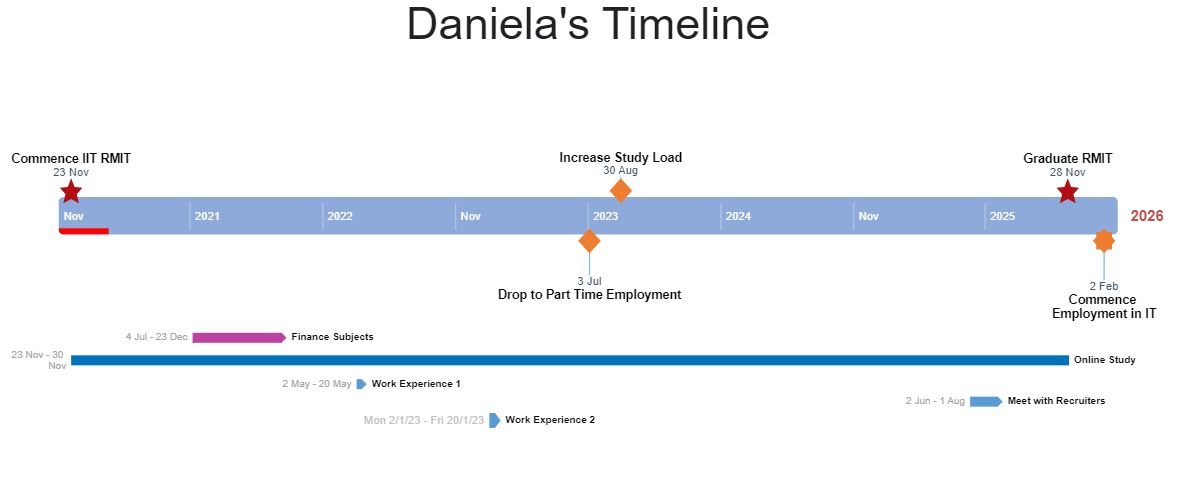
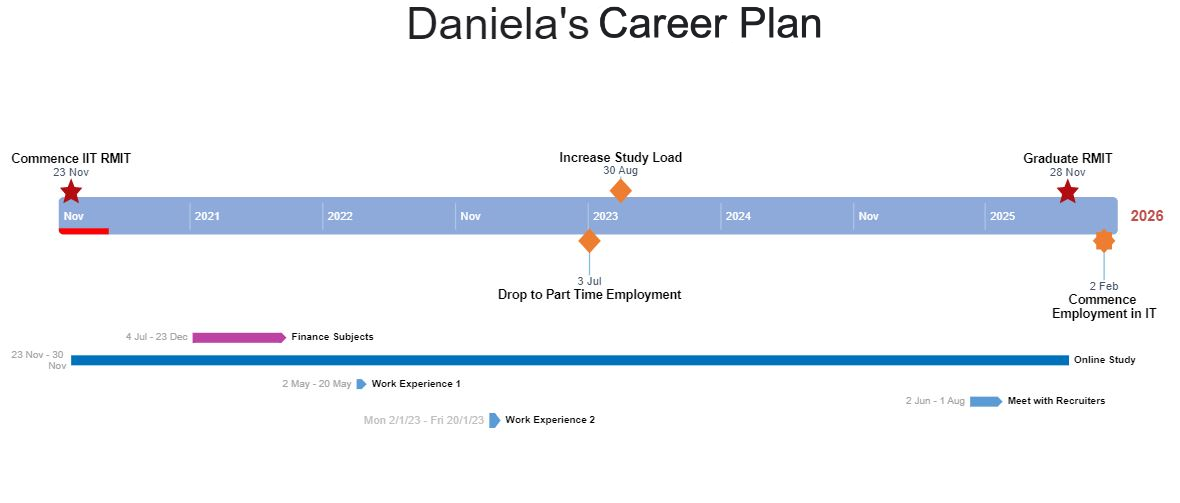
added side navigation, fixed careerplan image

Changed region(s): [[0.4881, 0.0, 0.7017, 0.0895]]

diff --git a/index.html b/index.html
@@ -56,13 +56,21 @@ Free for personal and commercial use under the CCA 3.0 license (html5up.net/lice
 <!-- Team -->
 
 				<article id="team" class="panel">
-
+					<div class="sidenav">
+						<div class="sidenavheaders" style="text-align:center;">Team Profile</h1></div>
+						<a href="#Joseph">Joseph</a>
+						<a href="#Benjamin">Benjamin</a>
+						<a href="#Brandon">Brandon</a>
+						<a href="#Daniela">Daniela</a>
+						<a href="#Varshan">Varshan</a>
+						<a href="#Viktor">Viktor</a>
+					</div>
 					<header>
 						<h1 style="text-align:center;">Team Profile</h1>
 					</header>
 					<section>
 						<div>
-							<a><img src="images/Joe_head.png" width=20% height=20% alt="Joseph"></a>
+							<a id="Joseph"><img src="images/Joe_head.png" width=20% height=20% alt="Joseph"></a>
 							<h2>Joseph</h2>
 							<p>Joseph Thannheiser (s3887138) is 24 years old, was born in Brisbane and has lived in Queensland for most of his life. At the end of October 2020, he moved to Sydney, New South Wales and is now only a 10-minute walk from Bondi Beach. Growing up, he attended Wellington Point State High School in South East Queensland and graduated in 2013. He has always enjoyed using technology – whether it be to play games, communicating with friends and peers, or to study online. Joseph is currently studying with RMIT and is enrolled in Introduction to Information Technology and Introduction to Programming. Though his experience with IT is mostly informal, Joseph has learned a lot about both computer software and hardware as well as how to build and maintain his own PC. In his free time, he enjoys playing video games, going to the beach, and hanging out with his partner Eloise and their new kitten Rudy.</p>
 
@@ -70,7 +78,7 @@ Free for personal and commercial use under the CCA 3.0 license (html5up.net/lice
 						</div>
 
 						<div>
-							<a><img src="images/Ben_head.png" width=20% height=20% alt="Benjamin"></a>
+							<a id="Benjamin"><img src="images/Ben_head.png" width=20% height=20% alt="Benjamin"></a>
 							<h2>Benjamin</h2>
 							<p>Benjamin James Snelgrove was born in Sydney, Australia in 1994. He attended Kingswood High School in Greater Western Sydney and successfully attained his Higher School Certificate in 2011. At the beginning of 2012, Benjamin enlisted into the Australian Army and was posted to Darwin. Benjamin has been fortunate enough to move around Australia and live in some incredible places. This within itself, this has presented Benjamin with both challenges and opportunities, for which he is grateful for. Benjamin is currently studying, Introduction to Information Technology at RMIT and can be found by using his unique student number -s3883299. Unfortunately, Benjamin does not have any experience within IT but his interests lie within Cyber Security with the hope to secure employment, on completion of his studies. Benjamin’s hobbies include playing golf, working out, gaming and spending quality time with his wife, Tina.</p>
 
@@ -78,7 +86,7 @@ Free for personal and commercial use under the CCA 3.0 license (html5up.net/lice
 							</div>
 
 							<div>
-								<a><img src="images/Brandon_head.png" width=20% height=20% alt="Brandon"></a>
+								<a id="Brandon"><img src="images/Brandon_head.png" width=20% height=20% alt="Brandon"></a>
 								<h2>Brandon</h2>
 								<p>Brandon Ferguson (s3876709) currently a student at RMIT, was born in 1999 at Geelong Hospital and has lived in geelong his whole life. Brandon was employed by McDonalds for 5 years and completed VCE at North Geelong Secondary College in 2016. In his spare time, Brandon enjoys training at the gym, enjoys life's adventures, plays a lot of video games and spending quality time with friends and family. From an early age, Brandon developed a keen interest in IT, as his love for video gaming opened another doorway to creating and hosting private servers. But still even with doing what he found entertaining in the tech world, Brandon is yet to acquire the related qualifications and experience to move to the next level.</p>
 
@@ -86,7 +94,7 @@ Free for personal and commercial use under the CCA 3.0 license (html5up.net/lice
 							</div>
 
 							<div>
-								<a><img src="images/Daniela_head.png" width=20% height=20% alt="Daniela"></a>
+								<a id="Daniela"><img src="images/Daniela_head.png" width=20% height=20% alt="Daniela"></a>
 								<h2>Daniela</h2>
 								<p>Daniela Frattali (s3883762) is currently studying Introduction to Information Technology at RMIT. She is a recruitment professional with more than 15 years experience who is currently working in the Disability Employment Service sector. Born and bred in Melbourne, Daniela is a coffee lover and is always looking out for a really good piccolo. When not at work or hunting for a good coffee, she enjoys reading, yoga, music and gaming with her son. Daniela has recently taken up running and she and her son enjoy long bike rides throughout Melbourne. She also enjoys chasing the sun and spends as much time as possible outside in summer. Her interest in IT was sparked by her Uncle working for Microsoft in the late 80’s, but until now she has never pursued study in the field. She is hoping to combine her interest in IT and Economics through further studies to change her career.</p>
 
@@ -94,7 +102,7 @@ Free for personal and commercial use under the CCA 3.0 license (html5up.net/lice
 							</div>
 
 							<div>
-								<a><img src="images/Varsh_Head.png" width=20% height=20% alt="Varshan"></a>
+								<a id="Varshan"><img src="images/Varsh_Head.png" width=20% height=20% alt="Varshan"></a>
 								<h2>Varshan</h2>
 								<p>Varshan Shankar (s3886861) is a 24 year old Singaporean who was born in Singapore in 1996. He is an Indian Hindu and a vegetarian since young due to religion and so hardly eats meat. He completed a Diploma in Electronic and Computer Engineering in Ngee Ann Polytechnic in Singapore. Varshan is bilingual in English and Tamil. His passion for sport is soccer, when he is not playing the world game with friends, he is watching soccer matches on television. His other interests include playing computer and console games and exploring food places. Varshan is currently studying Introduction to Information Technology and Introduction to Programming at RMIT. He chose these courses at RMIT as it is very flexible, it allows him to customise his time accordingly for studies in the busy schedule, he likes everything IT related and RMIT is well recognised in the area of IT study.</p>
 
@@ -102,7 +110,7 @@ Free for personal and commercial use under the CCA 3.0 license (html5up.net/lice
 							</div>
 
 							<div>
-								<a><img src="images/Viktor_head.png" width=20% height=20% alt="Viktor"></a>
+								<a id="Viktor"><img src="images/Viktor_head.png" width=20% height=20% alt="Viktor"></a>
 								<h2>Viktor</h2>
 								<p>Viktor Komaromi was born in Budapest, Hungary in 1975. He immigrated to Australia in 1988 and graduated High School in 1993 from Lynwood Senior High in Western Australia. He continued his education at TAFE and after completing a couple of Certificates in Information Technology he began studying Multimedia and Computer Systems Engineering. Due to a fortunate turn of events while looking for a casual job, he was offered a full-time position at a small computer shop which offered to train him. He accepted and has been working in the IT Industry since 1997. He’s gained experience in a variety of roles, including computer repairs, sales, assembly, troubleshooting as well as held the positions of IT Consultant, IT Technician, Helpdesk Officer, Audio Visual Technician and Network Manager. He is currently working full-time and studying with RMIT University part-time to gain a Bachelor of Information Technology degree to further his career. He can be found via his student number of s3882570 and is currently enrolled in the Introduction to Information Technology and Programming units. Viktor’s hobbies include spending quality time with his wife and kids, reading about new technologies, watching Anime and gaming.</p>
 
@@ -115,12 +123,18 @@ Free for personal and commercial use under the CCA 3.0 license (html5up.net/lice
 <!-- Career Plans-->
 
 					<article id="careerplans" class="panel">
+						<div class="sidenav">
+							<div class="sidenavheaders" style="text-align:center;">Career Plans</h1></div>
+							<a href="#jobroles">Job Roles</a>
+							<a href="#careerplantime">Career Plan Timelines</a>
+							<a href="#careerplancomp">Career Plan Comparisons</a>
+						</div>
 						<header>
 							<h1 style="text-align:center;">Career Plans</h1>
 						</header>
 						<div>
 
-						<h3>Tech Inception Job Roles</h3>
+						<h2 id="jobroles">Tech Inception Job Roles</h3>
 						<ul>
 							<li><b>Artificial Intelligence (AI) and Automation Developer:</b> <i>Varshan</i></li>
 							<li><b>Data Analyst:</b> <i>Daniela</i></li>
@@ -130,7 +144,7 @@ Free for personal and commercial use under the CCA 3.0 license (html5up.net/lice
 						</ul>
 
 						<button type="button" class="collapsible">
-							<h2>Career Plan Timeline </h2>
+							<h2 id="careerplantime">Career Plan Timeline </h2>
 						</button>
 						<div class="collapsible-target">
 							<br></br>
@@ -149,7 +163,7 @@ Free for personal and commercial use under the CCA 3.0 license (html5up.net/lice
 								<br></br>
 
 						<button type="button" class="collapsible">
-							<h2>Career Plan Comparisions</h2>
+							<h2 id="careerplancomp">Career Plan Comparisions</h2>
 						</button>
 						<div class="collapsible-target">
 
@@ -193,6 +207,14 @@ Free for personal and commercial use under the CCA 3.0 license (html5up.net/lice
 <!-- Skills and jobs -->
 
 					<article id="skillsandjobs" class="panel">
+						<div class="sidenav">
+							<div class="sidenavheaders" style="text-align:center;">Skills and Jobs</h1></div>
+							<a href="#frontend">Front-End Developer</a>
+							<a href="#backend">Back-End Developer</a>
+							<a href="#marketing">Marketing Specialist</a>
+							<a href="#uxdesigner">UX Designer</a>
+							<a href="#contactus"> Contact Us</a>
+						</div>
 						<header>
 							<h1 style="text-align:center;">Skills and Jobs</h1>
 						</header>
@@ -200,7 +222,7 @@ Free for personal and commercial use under the CCA 3.0 license (html5up.net/lice
 						<div>
 							<br>
 							<button type="button" class="collapsible">
-								<h2>Front-End Developer</h2>
+								<h2 id="frontend">Front-End Developer</h2>
 							</button>
 							<div class="collapsible-target">
 
@@ -251,7 +273,9 @@ Free for personal and commercial use under the CCA 3.0 license (html5up.net/lice
 						</div>
 						<div>
 							<br>
-							<button type="button" class="collapsible"><h2>Back-End Developer</h2></button>
+							<button type="button" class="collapsible">
+								<h2 id="backend">Back-End Developer</h2>
+							</button>
 							<div class="collapsible-target">
 
 								<a><img src="images/backend.png" width=100% height=100% alt="backend "></a>
@@ -299,7 +323,9 @@ Free for personal and commercial use under the CCA 3.0 license (html5up.net/lice
 						</div>
 						<div>
 							<br>
-							<button type="button" class="collapsible"><h2>Marketing Specialist</h2></button>
+							<button type="button" class="collapsible">
+								<h2 id="marketing">Marketing Specialist</h2>
+							</button>
 							<div class="collapsible-target">
 
 								<a><img src="images/marketing.png" width=100% height=100% alt="marketing"></a>
@@ -349,7 +375,9 @@ Free for personal and commercial use under the CCA 3.0 license (html5up.net/lice
 						</div>
 						<div>
 							<br>
-							<button type="button" class="collapsible"><h2>UX Designer</h2></button>
+							<button type="button" class="collapsible">
+								<h2 id="uxdesigner">UX Designer</h2>
+							</button>
 							<div class="collapsible-target">
 
 							<a><img src="images/uxuidesign.png" width=100% height=100% alt="uxuidesign"></a>
@@ -395,7 +423,7 @@ Free for personal and commercial use under the CCA 3.0 license (html5up.net/lice
 <!-- contact us -->
 						<div>
 								<br></br>
-									<i><p> If you believe that you can bring something unique and speacial to the team at Tech Inception, please contact us below, using the subject line to nominate what job position you are applying for. </p></i>
+									<i><p id="contactus"> If you believe that you can bring something unique and speacial to the team at Tech Inception, please contact us below, using the subject line to nominate what job position you are applying for. </p></i>
 
 																		 <header>
 																		 	<h2>Contact Tech Inception Today</h2>
@@ -447,6 +475,16 @@ Free for personal and commercial use under the CCA 3.0 license (html5up.net/lice
 <!-- Project Idea -->
 
 					<article id="project" class="panel">
+						<div class="sidenav">
+							<div class="sidenavheaders" style="text-align:center;">Project Idea</h1></div>
+							<a href="#overview">Overview</a>
+							<a href="#detailed">Detailed Description</a>
+							<a href="#plans">Plans and Progress</a>
+							<a href="#roles">Roles, Scope and Limitations</a>
+							<a href="#testing">Testing</a>
+							<a href="#timeframe">Timeframe</a>
+							<a href="#group">Group Processes and Communication</a>
+						</div>
 						<header>
 							<h1 style="text-align:center;">Project Idea</h1>
 						</header>
@@ -457,7 +495,7 @@ Free for personal and commercial use under the CCA 3.0 license (html5up.net/lice
 								<h2 style="text-align:center;"> <i> For the love of coffee </i> </h2>
 								<br>
 								<button type="button" class="collapsible">
-									<h2 <b> Overview </b> </h2>
+									<h2 id="overview" <b> Overview </b> </h2>
 								</button>
 								<div class="collapsible-target">
 								<h3>Topic</h3>
@@ -478,7 +516,7 @@ Free for personal and commercial use under the CCA 3.0 license (html5up.net/lice
 							<br>
 							<div>
 								<button type="button" class="collapsible">
-									<h2 <b> Detailed Description </b> </h2>
+									<h2 id="detailed" <b> Detailed Description </b> </h2>
 								</button>
 								<div class="collapsible-target">
 
@@ -507,7 +545,7 @@ Free for personal and commercial use under the CCA 3.0 license (html5up.net/lice
 
 							<div>
 								<button type="button" class="collapsible">
-									<h2 <b>Plans and Progress </b> </h2>
+									<h2 id="plans" <b>Plans and Progress </b> </h2>
 								</button>
 								<div class="collapsible-target">
 
@@ -538,7 +576,7 @@ Free for personal and commercial use under the CCA 3.0 license (html5up.net/lice
 							<br>
 							<div>
 								<button type="button" class="collapsible">
-									<h2 <b> Roles, Scope and Limitations </b> </h2>
+									<h2 id="roles" <b> Roles, Scope and Limitations </b> </h2>
 								</button>
 								<div class="collapsible-target">
 									<h3>Roles</h3>
@@ -557,7 +595,7 @@ Free for personal and commercial use under the CCA 3.0 license (html5up.net/lice
 							<br>
 							<div>
 								<button type="button" class="collapsible">
-									<h2 <b> Testing </b> </h2>
+									<h2 id="testing" <b> Testing </b> </h2>
 								</button>
 								<div class="collapsible-target">
 
@@ -567,7 +605,7 @@ Free for personal and commercial use under the CCA 3.0 license (html5up.net/lice
 								<br>
 								<div>
 									<button type="button" class="collapsible">
-										<h2 <b> Timeframe </b> </h2>
+										<h2 id="timeframe" <b> Timeframe </b> </h2>
 									</button>
 									<div class="collapsible-target">
 
@@ -577,7 +615,7 @@ Free for personal and commercial use under the CCA 3.0 license (html5up.net/lice
 								<br>
 								<div>
 								<button type="button" class="collapsible">
-										<h2 <b> Group Processes and Communication </b> </h2>
+										<h2 id="group" <b> Group Processes and Communication </b> </h2>
 									</button>
 									<div class="collapsible-target">
 

diff --git a/assets/css/main.css b/assets/css/main.css
@@ -26,6 +26,54 @@ section, summary, time, mark, audio, video {
 	vertical-align: baseline;
 }
 
+.sidenavheaders{
+	color: #2B2D42;
+	margin-bottom: 10px;
+	font-weight: bold;
+	font-size: 1.5em;
+}
+
+.sidenav {
+  width: 240px; /* Set the width of the sidebar */
+  position: fixed;
+  z-index: 1;
+  top: 30%;
+  left: 2%;
+  background-color: #EBEBEB; /* Black */
+  overflow-x: hidden; /* Disable horizontal scroll */
+  padding-top: 10px;
+	border-radius: 12px;
+}
+
+/* The navigation menu links */
+.sidenav a {
+  padding: 6px 8px 6px 16px;
+  text-decoration: none;
+  font-size: .8em;
+	border-top: 1px black solid;
+	border-bottom: 1px black solid;
+  color: #0D2A30;
+  display: block;
+}
+
+/* When you mouse over the navigation links, change their color */
+.sidenav a:hover {
+	color: #333533;
+	background-color: #F6F7EB;
+}
+
+/* Style page content */
+.main {
+  margin-left: 160px; /* Same as the width of the sidebar */
+  padding: 0px 10px;
+}
+
+/* On smaller screens, where height is less than 450px, change the style of the sidebar (less padding and a smaller font size) */
+@media screen and (max-height: 450px) {
+  .sidenav {padding-top: 15px;}
+  .sidenav a {font-size: 18px;}
+}
+
 .arrow{
   position: fixed;
   bottom: 30px;
